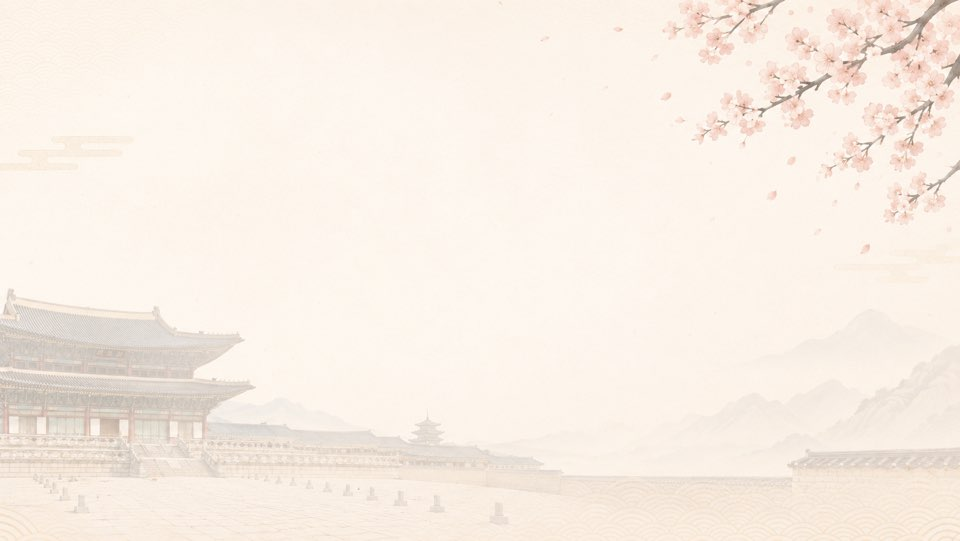
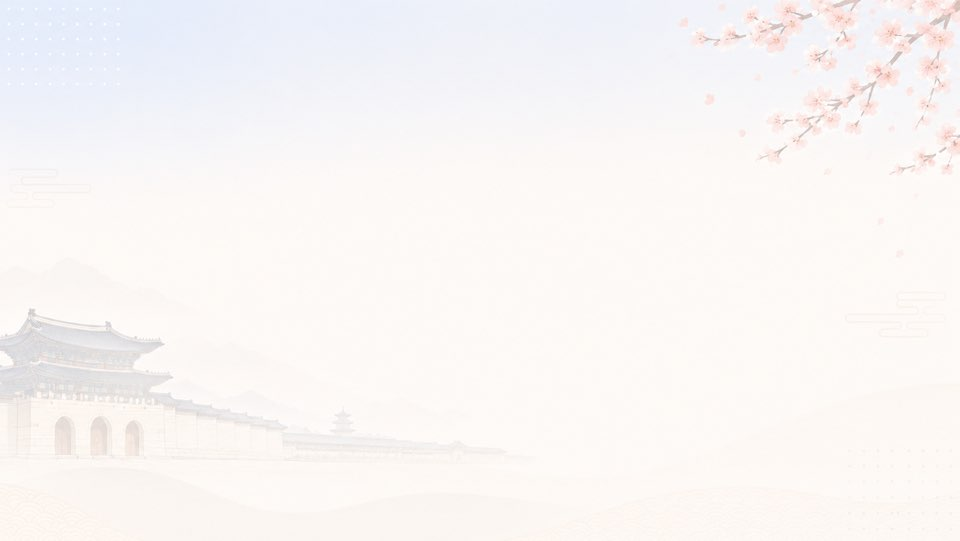
css 채팅 수정

diff --git a/FE/app/globals.css b/FE/app/globals.css
@@ -1048,8 +1048,11 @@ select {
   inset: 0;
   z-index: -1;
   background:
-    linear-gradient(90deg, rgba(29, 25, 20, 0.38), rgba(29, 25, 20, 0.06)),
-    rgba(255, 248, 236, 0.08);
+    linear-gradient(
+      90deg,
+      rgba(255,255,255,0.55),
+      rgba(255,255,255,0.15)
+    );
 }
 
 .story-experience-heading {
@@ -1063,8 +1066,12 @@ select {
 }
 
 .story-experience-heading h1 {
-  color: #17120d;
+   color: #17120d;
   text-shadow: 0 1px 12px rgba(255, 255, 255, 0.45);
+  font-family: "Plus Jakarta Sans", "Noto Sans KR", sans-serif;
+  font-weight: 900;
+  letter-spacing: -0.04em;
+  font-size: clamp(2.8rem, 5vw, 4rem);
 }
 
 .story-experience-section .messenger-layout {
@@ -1106,7 +1113,10 @@ select {
 }
 
 .story-experience-section .messenger-side h2 {
-  font-size: 1.5rem;
+  font-size: 1.8rem;
+  font-weight: 900;
+  letter-spacing: -0.03em;
+  color: #171c2f;
 }
 
 .story-experience-section .info-block {
@@ -1161,9 +1171,12 @@ select {
 .story-experience-section .story-guide-card {
   margin: 18px 0;
   padding: 18px;
-  border: 1px solid rgba(216, 198, 170, 0.9);
+
+  border: 1px solid #e2c8a7;
   border-radius: 18px;
-  background: rgba(255, 247, 237, 0.86);
+
+  background: #fff7ec;
+
   color: #2f2418;
   line-height: 1.72;
 }
@@ -1199,7 +1212,7 @@ select {
 }
 
 .story-experience-section .bubble-npc {
-  background: rgba(255, 255, 255, 0.94);
+  background: #fffdfa;
   border-left-color: #2b7a78;
 }
 
